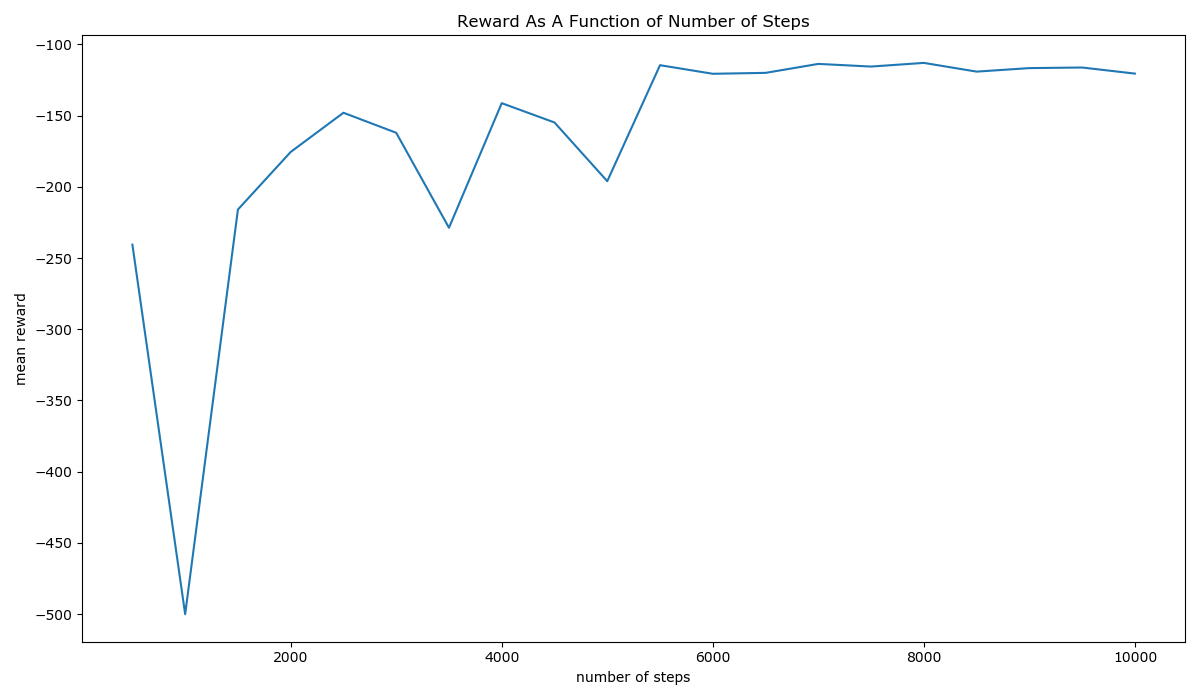
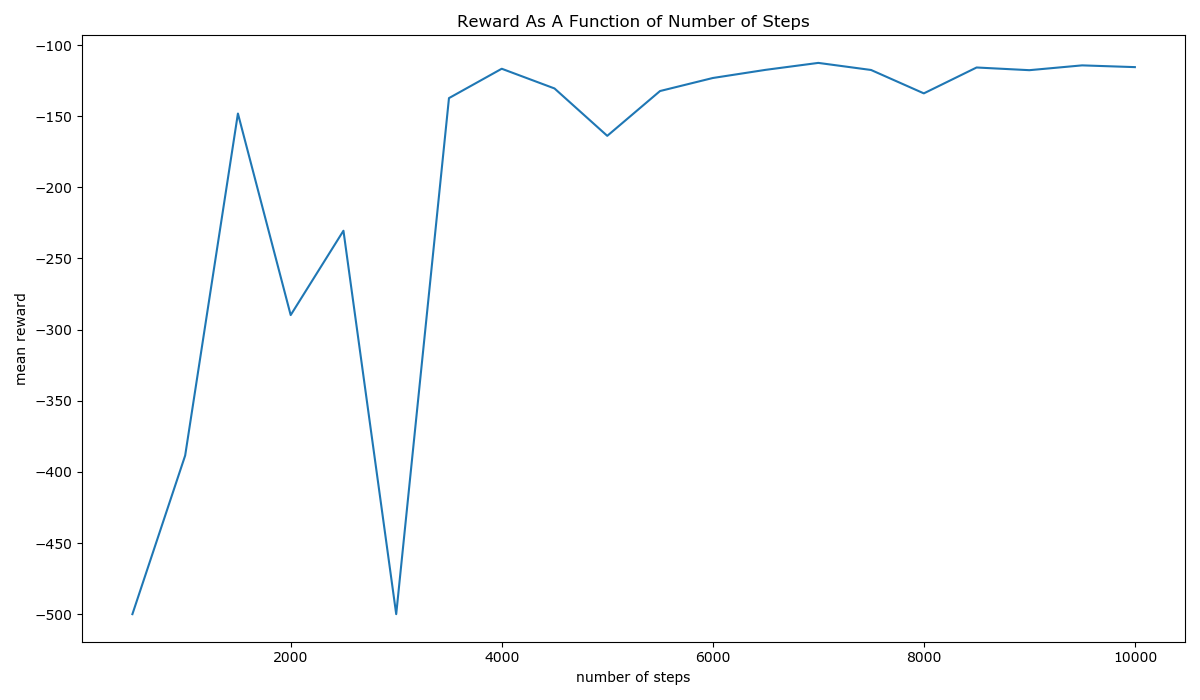
added report and changed gamma to 1

diff --git a/3/Ass3.py b/3/Ass3.py
@@ -12,7 +12,7 @@ alpha = 0.02
 max_steps_in_episode = 500
 total_max_steps = 10000
 episodes = 10000
-gamma = 0.95
+gamma = 1
 epsilon_max = 0.1
 epsilon_min = 0.005
 _lambda = 0.5
@@ -72,12 +72,12 @@ def normalize_state(state):
     p_n = (p-env.observation_space.low[0]) / (env.observation_space.high[0] - env.observation_space.low[0])
     v_n = (v-env.observation_space.low[1]) / (env.observation_space.high[1] - env.observation_space.low[1])
 
-    return p_n,v_n
+    return p_n, v_n
 
 
 # p,v should be normalized
 def get_Q(features, W):
-    return np.array([features @ W[:,a] for a in range(ACTION_NO)])
+    return np.array([features @ W[:, a] for a in range(ACTION_NO)])
 
 
 def get_Q_a(features, W_a):
@@ -102,7 +102,7 @@ def sarsa_lambda(env, episodes=episodes, max_steps=max_steps_in_episode, is_savi
         E = init_E()
         state = normalize_state(env.reset()) 
         features = get_features(state)
-        action = eps_greedy_policy(epsilon,get_Q(features,W))
+        action = eps_greedy_policy(epsilon, get_Q(features, W))
 
         for step in range(max_steps):
             total_steps += 1
@@ -121,7 +121,6 @@ def sarsa_lambda(env, episodes=episodes, max_steps=max_steps_in_episode, is_savi
                 delta_error = reward + gamma * next_Q_p_v_a - curr_Q_p_v_a
 
             stochasticGradient = features
-            # E[:, action] +=  stochasticGradient  # accumulating traces
             E[:, action] = stochasticGradient  # replacing traces
            
             deltaW = (np.multiply(alpha*delta_error, E))
@@ -137,7 +136,6 @@ def sarsa_lambda(env, episodes=episodes, max_steps=max_steps_in_episode, is_savi
                     with open(BEST_WEIGHTS_PATH, 'wb') as fd:
                         fd.write(pickle.dumps(W))
 
-            state = new_state
             action = new_action
             features = new_features.copy()
 
